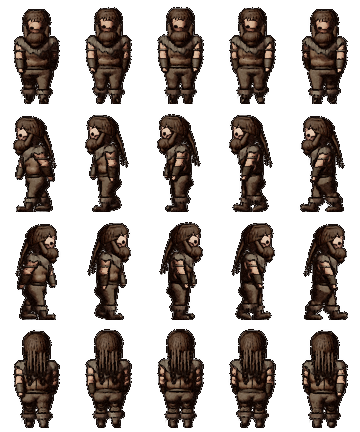
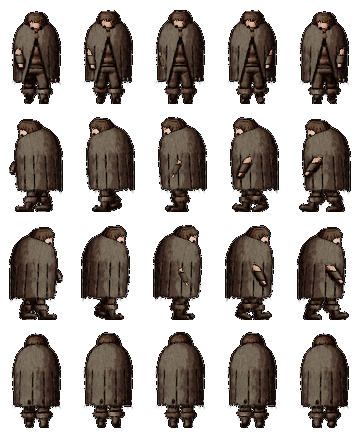
탐험가 맵 그림 옷차림 후보 9종 · 기본 망토 · 머리 작게 · 팔 앞뒤로(AM42)
Claude-Session: https://claude.ai/code/session_012LdG8JyUMFwKDnqU5jz75N

diff --git a/docs/ASSUMPTIONS.md b/docs/ASSUMPTIONS.md
@@ -25,7 +25,7 @@
 | PA | 플레이 감사 수정(2026-10-14) | 14 |
 | CT | 도시 라비기온(M4) · 차원광장·저장 · 돈 단위 CT43 · 길드 의뢰 CT44 · 거리 사건 그림 CT45 · 여관 식사 버프 CT46 · 요리 그림 CT47 · 식사 값대 CT48 | 49 |
 | UI | 화면·조작 결정 전체(행동창·대화창 UI15·키보드만 UI17·간접 체험 UI19·소리 UI20·전투 알림창 UI21 · 지식이 남는 전투 UI22 · 창은 화면 안에 UI23 · 상태 아이콘 UI24 · 보스 면역 몇 가지·아이콘 넘기기 UI25 · Tab 메뉴 아군·공용 가방 UI26 · 전투 뒷그림 UI28 · 적 원근 줄 UI29 …) | 29 |
-| AM | 탐험 맵 그림(A0~A5) · 아이템 그림 AM40~AM41 | 40 |
+| AM | 탐험 맵 그림(A0~A5) · 아이템 그림 AM40~AM41 · 탐험가 옷차림 AM42 | 41 |
 | DC | 문서 정리에서 찾은 명세와 다른 점 | 5 |
 | EX | 1층 채우기 — 다른 탐험가·약탈자·새 시체·밀도(2026-10-21) | 13 |
 | IT | 아이템 공식 — 종류 × 소재 등급(2026-10-23) · 플레이버 텍스트 IT7 | 7 |
@@ -578,6 +578,7 @@
 | AM38 | **탐험가 시체 = 탐험가 맵 몸 그림을 눕힌 것**(사용자 2026-10-22 "탐험가 시체가 너무 인형처럼 생겼고 작음"): 도형(천 덩어리·막대)으로 그리던 시체를 `assets/actors/human.webp`의 옆모습 걸음 칸(다리를 벌린 자세)을 눕혀(−1.42rad) 핏기 없이 어둡게 칠하고, 번진 피 웅덩이 3겹·떨어진 칼·굴러 나온 등짐을 곁들였다(`Props._lying_body`). 크기 = 서 있는 탐험가 키(약 52px)와 같게 — 소품 시트 칸을 1.5 → 2.0칸 해상도로 올리고(`floor_art/Specs.gd PROPS size`, 다른 소품은 같은 크기로 더 선명하게) `feat_corpse` art.prop.size 1.5 → 1.9. 고정 지도의 탐험가 시체·갓 죽은 탐험가·쓰러진 약탈자 모두 이 타일 | 걷는 탐험가와 같은 그림이라 "사람"으로 읽힌다 | `tools/floor_art/Props.gd` corpse · `paint_floor.gd --only=props`(시트를 먼저 그린 뒤) |
 | AM40 | (사용자 2026-10-23 "아이템 그림을 우리 그림체로 전면 교체") **아이템 그림 = 몬스터 그림과 같은 칠 순서**(Clay 3D 덩어리 → Render 붓 칠·적갈색 그늘·잉크·빗금 → Finish 때·색 보정)로 아이템마다 한 장(`tools/paint_items.gd` → `assets/items/<id>.webp`, 359장 약 2분). 캔버스 = 가방 칸 × 80px(가방 칸 38px의 약 2배), 세로 무기는 손잡이 아래·끝 위. 공식 장비는 소재 색·종류·등급으로 칠한다 — 쇠는 밝을수록 번들(어두운 아다만티움이 쇠 반사에 묻히지 않게 `spec` = 0.15 + 0.55 × 밝기), 3단계 이상 날밑·테는 장식 금속(황동빛), 4단계 이상 자루 끝 보석, 5~6단계 은은한 빛, 1단계 날은 이 빠진 자국. 게임은 그림이 있으면 그것을, 없으면 옛 도형(`ItemIconPainter`) | 아이템만 평면 도형이라 다른 그림과 따로 놀았다. 모양은 이름·종류에서(원작 묘사 없음) | 설계 `tools/item_art/`(ItemArt·Frame·Blades·Hafts·Wear·Wear2·Goods), 그린 뒤 `--import` |
 | AM41 | (사용자 2026-10-23 "손잡이·날 모양이 다 비슷해 이름을 보기 전엔 구분이 안 된다 — 소재별로 자연스러운 특징을") **소재마다 생김새**(`tools/item_art/Style.gd`): 금속 = 날 폭·날끝·날·날밑·자루 끝·손잡이·표면 — 강철 투박한 이 빠진 날·가죽 감개, 라이티늄(가볍다) 가늘고 구멍 뚫린 날·흰 천 감개·얇은 날밑, 아이릴제(미스릴+강철 합금) 물결 단조 무늬·뒤로 젖힌 날개 날밑·고리 자루 끝·쇠줄 감개, 아이디움 넓고 검게 두드린 날(망치 자국), 월광석 초승달 날밑·자루 끝·초승달 무늬·창백한 빛, 오리하르콘(마력이 통함) 잎 모양 날·금빛 새긴 글자가 주황으로 빛남·소용돌이 날밑·보석, 미스릴 잎 날·푸른 빛 핏줄 무늬, 아다만티움(무겁다) 아주 넓고 비스듬히 잘린 날·덩어리 날밑·쇠띠, 미스티움(왕가) 금실 무늬·금테·보석, 아크(용살·마법 카운터) 용 비늘·톱니 날·발톱 날밑·푸른 빛. 도끼·미늘창 머리(보통·턱 긴·반달·양날), 철퇴 머리(날개·가시·각진·금장식)도 소재에서. 가죽·천·목재·뼈·보석은 표면·둘레 장식 — 와이번·드레이크 비늘, 트롤 혹·덧댐, 오우거 덧댐·징, 고룡 비늘·가시, 거미 비단 거미줄, 서리 양모 털, 월광 비단 초승달, 정령 비단 빛 핏줄, 세계수 잎·빛 잎맥, 보르탈 빛나는 옹이, 아르테네목 감은 밧줄, 짐승 뼈 갈라짐·끈, 보석 모양(수정 육각 기둥·호박 속 벌레·비취 매끈한 알·흑요석 조각·블루스톤 물방울), 금속 반지 = 인장 반지 | 원작 설정(가볍다·무겁다·용살·마력)에서 고르고, 원작에 없는 것은 이름에서 | `Style.BY_MATERIAL`(소재 한 줄), 부품 `Hilt.gd`(손잡이·날밑·자루 끝)·`Surface.gd`(무늬·장식) |
+| AM42 | **탐험가 맵 그림 옷차림 고르기**(사용자 2026-10-26 "거지 복장 같고 촌스럽다 · 머리가 크다 · 인간은 팔을 앞으로만 흔든다 · 걷는 모습은 그대로 · 망토도 괜찮다 — 여러 개 그려 봐"): 걸음(AM31)은 그대로 두고 옷·머리 비율만 바꾸는 후보 9종(`tools/monster_art/MapLooks.gd` — 인간 h0 깔끔한 여행복·h1 방랑 망토·h2 두건 쓴 망토·h3 탐험가 외투·h4 누빔 갑옷·h5 사슬 갑옷, 바바리안 b0 머리만 작게·b1 털 망토·b2 가죽 갑옷), 비교 그림 `docs/screens/map_looks.png`. 머리 인간 2.2 → 1.75·다리 0.75 → 0.82, 바바리안 2.5 → 2.1·0.68 → 0.72. 겉옷은 새 부품 `BackCloak`(망토 = 목 → 어깨를 둥글게 덮고 단으로 퍼지는 3D 사슬 원뿔을 단 높이에서 자름 — 다리가 보여야 걸음이 산다, 앞모습은 가운데 V로 트임 / 쓴 두건 / 무릎 외투 / 누빔 / 사슬). 팔: 앞으로 간 팔 위팔 +8° → +20°·아래팔 그대로 +13° → +19°로(뒤로 간 팔 −38°·−31° 그대로) — 걸음 칸마다 한 손은 앞·한 손은 뒤로 보인다. **기본 = 인간 h1 방랑 망토 · 바바리안 b1 털 망토**(사용자가 망토를 말했다 — 다른 후보로 바꾸기 쉽다). 전투 그림(뒷모습)은 그대로 | 사용자 요청 | 기본 옷차림: `tools/paint_actors.gd` `LOOK`(종족 → id) → `godot --headless --path . --script res://tools/paint_actors.gd -- --only=human,barbarian`. 후보 다시 보기 `-- --look=<id,id> --out=<폴더>`. 새 후보 = `MapLooks.LOOKS` 한 항목 |
 | AM13 | 입자는 CPUParticles2D(웹 호환), 플레이어를 따라가며 시야 반경 안에서만 생기고 월드에 남는다(걸어도 끌려가지 않음). 그림은 둥근 점(그러데이션 16px) — 손그림 입자는 A2 이후 | 지시서 §3.3·§7 | `AmbientParticles` |
 
 ## 1층 채우기 — 다른 탐험가·약탈자·밀도 (2026-10-21, 사용자 "abcdf 하고 싶은데 1층에도 약탈자가 있음" — `docs/plans/floor1_fill.md` A·B·C·D·F)

diff --git a/docs/archive/PROGRESS_LOG.md b/docs/archive/PROGRESS_LOG.md
@@ -6,6 +6,12 @@
 
 ## 작업 기록 (2026-10-20 이후 — 위가 최신)
 
+- **탐험가 맵 그림 옷차림 후보 · 기본 = 망토 (2026-10-26, 사용자 "플레이어 탐험 스프라이트 교체 — 거지 복장 같고 촌스럽다, 인간은 팔을 앞으로만 흔든다, 걷는 모습은 그대로, 머리가 크다, 망토도 괜찮다 — 여러 개 그리되 피어 앤 헝거 화풍")** — AM42.
+  - 후보 9종(`MapLooks`): 인간 h0 여행복·h1 방랑 망토·h2 두건 쓴 망토·h3 외투·h4 누빔 갑옷·h5 사슬 갑옷, 바바리안 b0 머리만 작게·b1 털 망토·b2 가죽 갑옷. 비교 `docs/screens/map_looks.png`(지금 그림과 나란히 — 앞·옆 걸음 A·옆 섬·옆 걸음 B·뒤).
+  - 새 겉옷 부품 `tools/monster_art/BackCloak.gd`(Party.figure가 장구 뒤에 부른다 — kit 키가 없으면 그대로라 전투 그림은 안 바뀐다). 망토는 처음 3D 캡슐 하나로 해서 ① 둥근 끝이 발까지·목 위까지 덮어 다리(걸음)가 안 보이고 ② 앞모습 트임 자르기가 반대쪽이었고 ③ 잘라 붙이니 어깨가 네모 상자 → 목·어깨·가슴·단 사슬 원뿔 + 단 높이 띠로 자름. 누빔 갑옷의 짧은 어깨 망토는 혹처럼 보여 기존 두건 어깨 망토(mantle)로.
+  - 머리 인간 1.75·바바리안 2.1, 다리 0.82·0.72. 팔 ARM_F 12 → 24·FORE_F −12 → −6(앞으로 간 팔이 확실히 앞으로). 기본 `LOOK` = h1_cloak·b1_fur_cloak → `assets/actors/human.webp`·`barbarian.webp` 다시 그림. 탐험 캡처로 확인.
+  - 남은 것: 사용자가 후보 중 고르기(한 줄), 몬스터 사람형 걷기 시트는 팔 각도 바뀐 값으로 아직 다시 안 그림(다음에 paint_actors를 몬스터까지 돌리면 같이 바뀐다).
+
 - **쓰러진 적은 남기지 않음 · 보스는 늘 가운데 (2026-10-26, 사용자 "적이 죽으면 약간 반투명하게 남아 있던데 그거 없애 줘. 계층군주나 균열 수호자는 항상 가운데에")** — UI29·PA7.
   - 반투명: `CombatScreen._drops_view`가 등급이 normal이 아닌 몬스터(정예·중간 보스·수호자·군주)를 흐린 채(알파 0.3) 남겼다 → 적은 모두 치운다(빛 먼지 `DeathDust`는 그대로). 되살아나는 몬스터는 없다(`revive_once`는 쓰러지기 전에 버티기). 흐리게 남는 것은 탐험가 본인만.
   - 보스 가운데: `FoeRows.arrange(…, pinned)` — 첫 보스(BattlerView.boss = `combat_boss_ranks`)를 앞줄 x 0, 나머지는 덜 찬 쪽 옆에 번갈아(벽 안), 못 들면 뒷줄. 보스가 나중에 들어오면(`_fit_new` 대신) 전원 다시 정렬. 뒷줄 틈을 가운데 사이가 아니라 몸 가장자리 사이로(넓은 보스 옆 틈이 보스 몸 뒤로 들어가던 것).

diff --git a/docs/ART.md b/docs/ART.md
@@ -12,6 +12,7 @@
 
 - 도시 그림 다시 만들기(약 2분): `godot --headless --path . --script res://tools/paint_city.gd [-- --only=street|buildings|interiors|plaza]` → `assets/city/`(데이터가 가리키는 경로, WebP). 그림체 = 피어 앤 헝거 2풍 손그림 일러스트(ASSUMPTIONS CT21~CT25).
   - 렌더링을 바꿨으면 반드시 캡처해서 직접 본다(헤드리스 테스트는 그림을 검증하지 못한다).
+- 탐험가 옷차림 후보(AM42): `godot --headless --path . --script res://tools/paint_actors.gd -- --look=<id,id> --out=<폴더>` → `<폴더>/<id>.webp`(후보 = `tools/monster_art/MapLooks.gd`, 겉옷 부품 `BackCloak` — 망토·쓴 두건·외투·누빔·사슬). 게임 그림의 옷차림 = `paint_actors.gd` `LOOK`. 비교 그림 `docs/screens/map_looks.png`.
 - 탐험 맵 몸 그림 다시 만들기(약 1분): `godot --headless --path . --script res://tools/paint_actors.gd [-- --only=<종족|monsters|id>]` → `assets/actors/<종족>.webp`(4방향 × 걸음 5장 시트 — 걸음·반걸음·섬·반걸음·걸음, 재생 순서 `render.json view.actor_sheet.walk_cycle`, `ActorSheet` — 탐험가는 전투 그림의 3D 몸에 피어 앤 헝거 맵 그림 비율·자세·깎은 얼굴·머리 타래를 붙여 그린다, 값은 `paint_actors.gd` 맨 위 상수, 시험은 `--set=<상수 소문자>=<값> --out=<폴더>`로 게임 그림을 건드리지 않고) + `assets/actors/monsters/<id>.webp`(전투 그림 축소). 전투 그림을 다시 그렸으면 이것도. 설정 `render.json view.actor_sheet`(ASSUMPTIONS AM27~AM28·AM31 걸음 각도). 몬스터 걷기 시트는 `<id>_walk.webp` + `sheets.json`(설계 `tools/monster_art/MapMonster.gd`, 35종 — AM35). 보스·중간보스는 걷기 대신 기다리는 자세 한 장(`MapMonster.BOSSES`·`BackPose`, 크게 — `--idle=<id>`로 그것만, AM34).
 - 탐험 맵 재질 그림 다시 만들기(몇 초): `godot --headless --path . --script res://tools/paint_floor.gd [-- --only=<장소|style>]` → `assets/floor/<장소>/<재질>.webp`(`data/tiles.json art`가 가리킴, 설계 `tools/floor_art/Specs.gd`). 그린 뒤 `--import`하고 `--shots`로 캡처해서 본다.
 - 아이템 그림 다시 만들기(약 2분): `godot --headless --path . --script res://tools/paint_items.gd [-- --only=<id,id> | --kind=<종류 id>]` → `assets/items/<id>.webp`(가방 칸 × 80px, 투명). 새 아이템·소재·종류를 넣었으면 그 아이템을 그린다(`tests/test_item_art.gd`가 모든 아이템의 그림·크기를 본다). 확인: 캡처 `--screen=explore --menu=inventory --give=<id,id>`.

diff --git a/docs/PROGRESS.md b/docs/PROGRESS.md
@@ -44,6 +44,7 @@
 
 ## 3. 최근 작업 (위가 최신 — 자세한 것은 PROGRESS_LOG에서 제목으로 검색)
 
+- 2026-10-26 **탐험가 맵 그림 옷차림 9종 · 기본 = 망토**(AM42): 걸음 그대로, 머리 작게·팔 앞뒤로, 인간 h1 방랑 망토·바바리안 b1 털 망토(후보 `docs/screens/map_looks.png`, 바꾸기 `paint_actors.gd LOOK`).
 - 2026-10-26 **쓰러진 적은 남기지 않음 · 보스는 늘 가운데**(UI29·PA7): 수호자·군주급도 쓰러지면 빛 먼지로 사라진다, 첫 보스는 앞줄 한가운데·나머지는 양옆/뒷줄 틈.
 - 2026-10-26 **뒷줄 적이 보이게 앞줄을 당김**(UI29): 뒷줄이 있으면 앞줄을 아래로(무대 높이 × 0.22 — 아군 머리와 겹쳐도 됨, 사용자)·조금 크게, 뒷줄은 화면에서도 앞줄 틈에. 캡처 `--rift=<id> --engage --summon=…`(균열 조우에도 증원).
 - 2026-10-26 **챕터별 전투 뒷그림 · 적 원근 줄**(UI28·UI29): 균열 챕터 13장 더(성채 1~4·빙하굴 2~4·탄광 2~4·묘 2~4 — 나머지 챕터는 균열 그림), 적이 많으면 통로 벽(`battleback.half_width`) 안에 앞줄부터 서고 넘치면 뒷줄로(깊이만큼 작게·소실점 쪽으로·앞줄 틈에, `FoeRows`).

diff --git a/docs/PLAYTEST.md b/docs/PLAYTEST.md
@@ -4,6 +4,14 @@
 > 키(`data/input.json`): 살피기 **F**(또는 Enter) · 대기 Space · 휴식 Z · **메뉴 Tab**(아군 · 캐릭터 · 소지품, 아이템은 여기서만) · 일시정지 Esc/P · 디버그 F1 · 고르기 **Enter** · 취소 **Backspace** · 커서 W/S/A/D. 마우스·터치는 쓰지 않는다.
 > 옛 절은 그날 기준이다 — 지금 규칙은 `docs/CANON.md`.
 
+### 탐험가 맵 그림 옷차림 (2026-10-26)
+
+| # | 하는 것 | 보여야 하는 것 |
+|---|---|---|
+| 1 | 인간으로 1층을 걷는다(네 방향) | 짙은 방랑 망토, 머리가 전보다 작다, 걸음은 예전처럼 — 망토 아래로 다리가 움직이고 손이 앞뒤로 나온다 |
+| 2 | 바바리안으로 걷는다 | 털 망토, 머리가 전보다 작다 |
+| 3 | `docs/screens/map_looks.png`를 보고 다른 후보가 좋으면 | id를 알려 주면 `paint_actors.gd LOOK` 한 줄로 바꾼다 |
+
 ### 챕터별 전투 뒷그림 · 적 원근 줄 (2026-10-26)
 
 | # | 하는 것 | 보여야 하는 것 |
